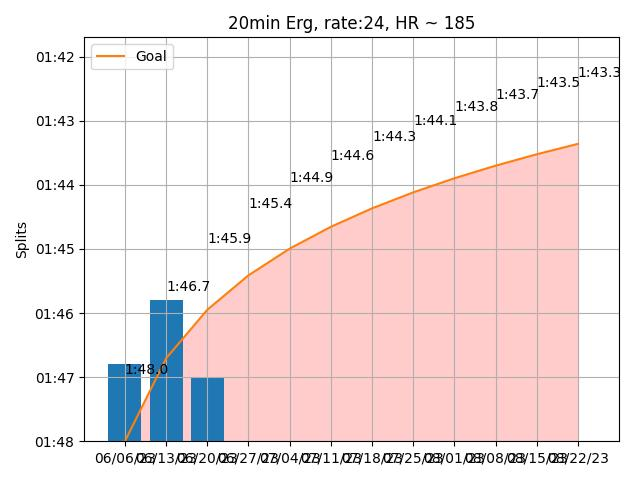
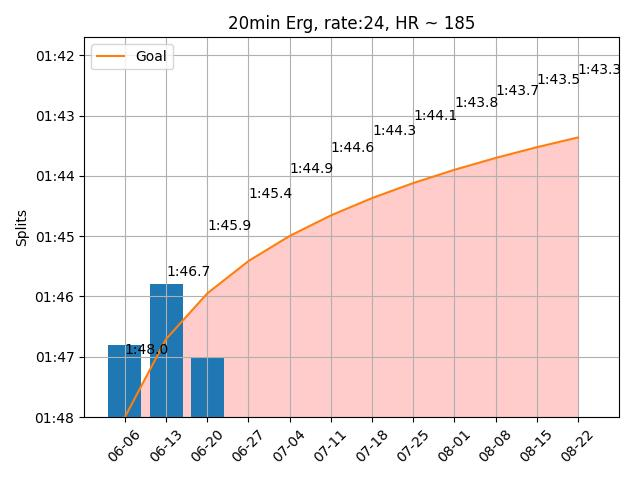
al_catch_up

diff --git a/index.html b/index.html
@@ -83,12 +83,12 @@
   </div>
 
   <div id="content">
-    <h2>Summer Training</h2>
+    <h2>Summer Training</h2>  
     <p>Over the course of the summer i wish to gain alot of speed before return to school in the fall. we have a number of tests when we get back thses ibcludes ---- - - -- -- and --- the purpose of this app is to ____- and a---- helping me reach and take another step up in fitness over the summer </p>
     <hr>
     <div style="display: flex; justify-content: space-between;">
       <h3>Summer 2023 training</h3>
-      <p style="margin-right: 5px;">Total Time: <strong>28:47</strong></p>
+      <p style="margin-right: 5px;">Total Time: <strong>00:00</strong></p>
     </div>
       <div class="image-container">
       <div class="left-image">

diff --git a/pre_page1.html b/pre_page1.html
@@ -95,7 +95,7 @@
       </div>
       <div class="invisible-box">
         
-        <p>you are <strong></strong> <br> 
+        <p>you are <strong>{{erg_string}}</strong> <br> 
           <br>next week need you need to be atlest on <strong>split </strong> to be on track<br>
          
           </p>

diff --git a/python/streching.py b/python/streching.py
@@ -1,0 +1,91 @@
+import plotly.graph_objects as go
+import plotly.io as pio
+from  plotly.subplots import make_subplots
+import pandas as pd
+import datetime as dt
+import numpy as np
+from main import streching
+from graphing import calc_time 
+
+
+summer_starts = dt.datetime(2023, 6, 5).date()
+current_date = summer_starts
+summer = []
+for i in range(90):            
+    summer.append(current_date)
+    current_date += dt.timedelta(days=1)
+
+streching_vals = calc_time(summer_starts, streching, summer)
+strech_bool = []
+for i in streching_vals:     # can do a date check here so its only upto the day
+    if i == "0:00":
+        strech_bool.append(0)
+    else:
+        strech_bool.append(1)
+
+week1 = strech_bool[:7]
+week2 = strech_bool[7:14]
+week3 = strech_bool[14:21]
+week4 = strech_bool[21:28]
+week5 = strech_bool[28:35]
+
+
+def bool2string(A):
+    # Convert a binary array into an array of strings 'Yes' and 'No'
+    S = np.where(A, 'Yes', 'No')
+    return S
+
+clrs = [
+    [0, '#b10000'],  # Map 0 (No) to red
+    [0.5, '#b10000'],  # Map values between 0 and 0.5 to red
+    [0.5, '#00b100'],  # Map values between 0.5 and 1 to green
+    [1, '#00b100']  # Map 1 (Yes) to green
+]
+
+d = {#'Week_1': [1, 0, 0, 1, 1, 0, 1],
+     #'Week of 6/12': week2,
+     "Week of 6/19": week3,
+     "Week_ of 6/26 ": week4}
+     #"": week5}
+
+df = pd.DataFrame(d)
+fig = make_subplots(rows=2, cols=1, shared_xaxes=True, row_heights=[0.725, 0])
+
+fig.update_layout(yaxis_domain=[0.75, 1], yaxis2_domain=[0, 0.725])  # Assign a smaller y-axis domain for the second heatmap
+groups = list(df.columns)
+A = df.values.T
+fig.add_trace(go.Heatmap(z=A, coloraxis='coloraxis', xgap=1, ygap=1, customdata=bool2string(A),
+                         hovertemplate='%{customdata}<extra></extra>'), 2, 1)
+and_01 = np.array(np.logical_and(A[0], A[1]), int).reshape(1, -1)
+#fig.add_trace(go.Heatmap(z=and_01, coloraxis='coloraxis', xgap=1, customdata=bool2string(and_01),
+#                         hovertemplate='%{customdata}<extra></extra>'), 1, 1)
+
+fig.update_layout(
+    title_text='Streching',
+    title_x=0.5,
+    width=799,
+    height=400,
+    coloraxis=dict(colorscale=clrs, showscale=False),
+    yaxis2_tickvals=[0, 1, 2],# hows what title
+   yaxis2_ticktext=groups,
+    yaxis2_autorange='reversed',
+    #yaxis_showticklabels=False,
+    #yaxis_title=f'{groups[0]}<br>and<br>{groups[1]}'
+)
+
+fig.update_traces(xaxis='x2', selector=dict(type='heatmap'))  # Apply xaxis to both heatmaps
+
+fig.update_xaxes(
+    tickvals=np.arange(7),
+    ticktext=['Monday', 'Tuesday', 'Wednesday', 'Thursday', 'Friday', 'Saturday', 'Sunday'],
+    row=1, col=1
+)
+
+fig.update_xaxes(
+    tickvals=np.arange(7),
+    ticktext=['Monday', 'Tuesday', 'Wednesday', 'Thursday', 'Friday', 'Saturday', 'Sunday'],
+    row=2, col=1
+)
+
+
+pio.write_image(fig, 'fitness-tracker/images/graph_image.png')

diff --git a/python/scratch.py b/python/scratch.py
@@ -1,54 +1,19 @@
-import plotly.graph_objects as go
-import plotly.io as pio
-import pandas as pd
-import numpy as np
+strech_bool = [0]*50
 
-def bool2string(A):
-    # convert a binary array into an array of strings 'True' and 'False'
-    S = np.empty(A.shape, dtype=object)
-    S[np.where(A)] = 'True'
-    S[np.where(A == 0)] = 'False'
-    return S
 
-clrs = [[0, '#0000db'], [0.5, '#0000db'], [0.5, '#b10000'], [1, '#b10000']]
+week1 = strech_bool[:6]
+week2 = strech_bool[7:13]
+week3 = strech_bool[14:20]
+week4 = strech_bool[21:27]
+week5 = strech_bool[28:34]
 
-d = {
-    'Week_1': [1, 0, 0, 1, 1, 0, 1]
-}
 
-figs = []
+print(week1)
 
-# Iterate over the keys in the dictionary
-for key in d.keys():
-    df = pd.DataFrame({key: d[key]})
-    fig = go.Figure()
+print(week2)
 
-    fig.add_trace(
-        go.Heatmap(
-            z=df.values.T,
-            coloraxis='coloraxis',
-            xgap=1,
-            customdata=bool2string(df.values.T),
-            hovertemplate='%{customdata}<extra></extra>'
-        )
-    )
+print(week3)
 
-    fig.update_layout(
-        title_text=f'{key} Graph',
-        title_x=0.5,
-        width=799,
-        height=400,
-        coloraxis=dict(colorscale=clrs, showscale=False),
-        yaxis_showticklabels=False,
-        xaxis=dict(
-            tickmode='array',
-            tickvals=np.arange(len(df.columns)),
-            ticktext=df.columns
-        )
-    )
+print(week4)
 
-    figs.append(fig)
-
-# Save the figures as images
-for i, fig in enumerate(figs):
-    fig.write_image(f'graph_{i+1}.png')
+print(week5)

diff --git a/python/var.py b/python/var.py
@@ -18,5 +18,32 @@ def modify_html():
     with open('fitness-tracker/index.html', 'w') as file:
         file.write(output)
 
+    
+    template = env.get_template('fitness-tracker/pre_page1.html')
+
+    # Define variables to be passed to the template
+    time = total_time
+
+    # Render the template with the variables
+    output = template.render(nothing=time)
+
+    # Write the rendered template to a new file
+    with open('fitness-tracker/page1.html', 'w') as file:
+        file.write(output)
+    
+    template = env.get_template('fitness-tracker/pre_page2.html')
+
+    # Define variables to be passed to the template
+    time = total_time
+
+    # Render the template with the variables
+    output = template.render(nothing=time)
+
+    # Write the rendered template to a new file
+    with open('fitness-tracker/page2.html', 'w') as file:
+        file.write(output)
+    
+
+
 if __name__ == '__main__':
     modify_html()

diff --git a/python/erg_testing.py b/python/erg_testing.py
@@ -30,10 +30,10 @@ test_days = []
 next_week= datetime.datetime(2023, 6, 6)
 week = datetime.timedelta(days=7)
 for i in range(12):
-    test_days.append(next_week.strftime("%D"))
+    test_days.append((next_week.strftime("%m-%d")))
     next_week += week
 
-print (test_days)
+#print (test_days)
 
 # Create the line graph
 plt.plot(test_days, times, ' ')
@@ -44,12 +44,13 @@ plt.bar(x, rowing_times)
 #plt.bar(test_days, , align="edge")
 plt.ylabel('Splits')
 plt.title('20min Erg, rate:24, HR ~ 185')
+plt.xticks(rotation=45)
 plt.legend()
 plt.grid(True)
 
 # Display the graph
 plt.tight_layout()
-plt.savefig("images/erg.jpg")
+plt.savefig("fitness-tracker/images/erg.jpg")
 plt.show()
 
 

diff --git a/python/main.py b/python/main.py
@@ -38,11 +38,11 @@ for row in data:
  
 #for row in data: 
 #     print(row)
-    
-    
 #for row in cycling:
 #    print(row)
 #for row in running:
 #    print(row)
 #for row in other:
 #    print(row)
+
+

diff --git a/python/graphing.py b/python/graphing.py
@@ -208,6 +208,7 @@ def add_times(time1, time2):
     return result.strftime(format_str)
 
 
+
 total_time = total_t(all_times_min)
 
 
